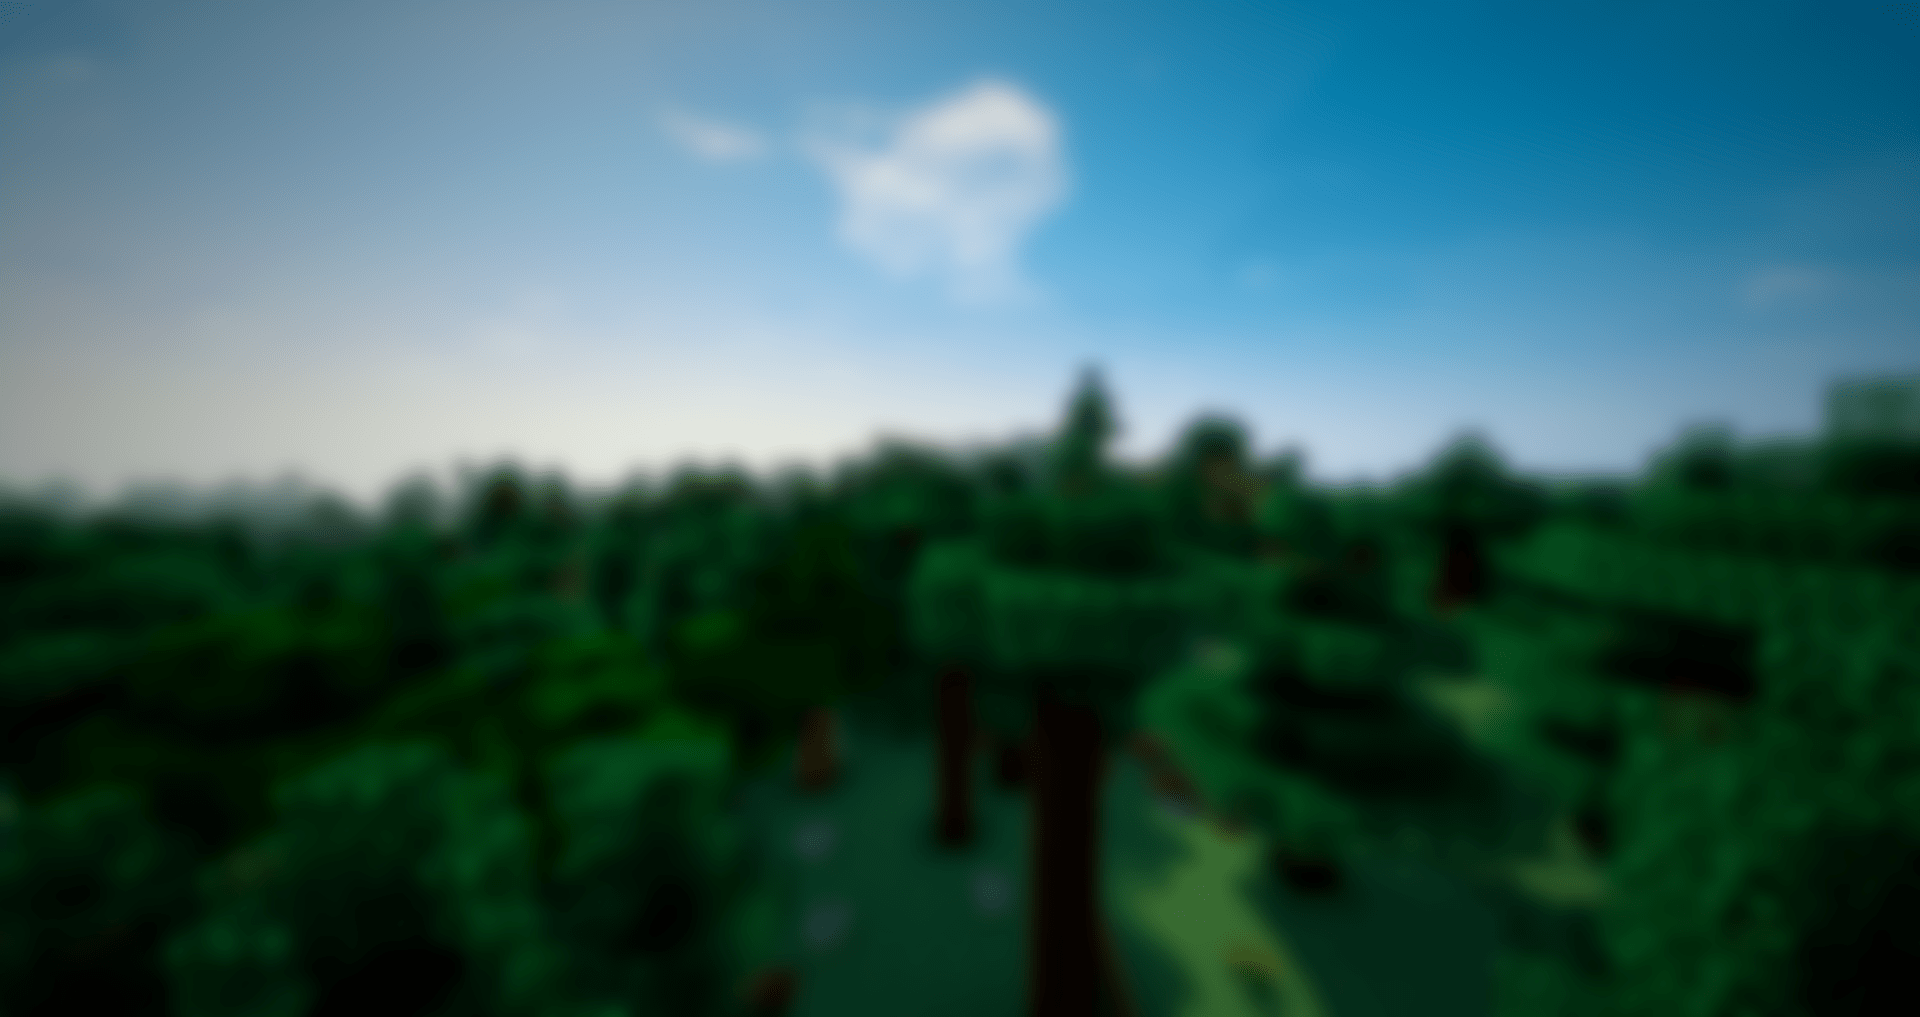
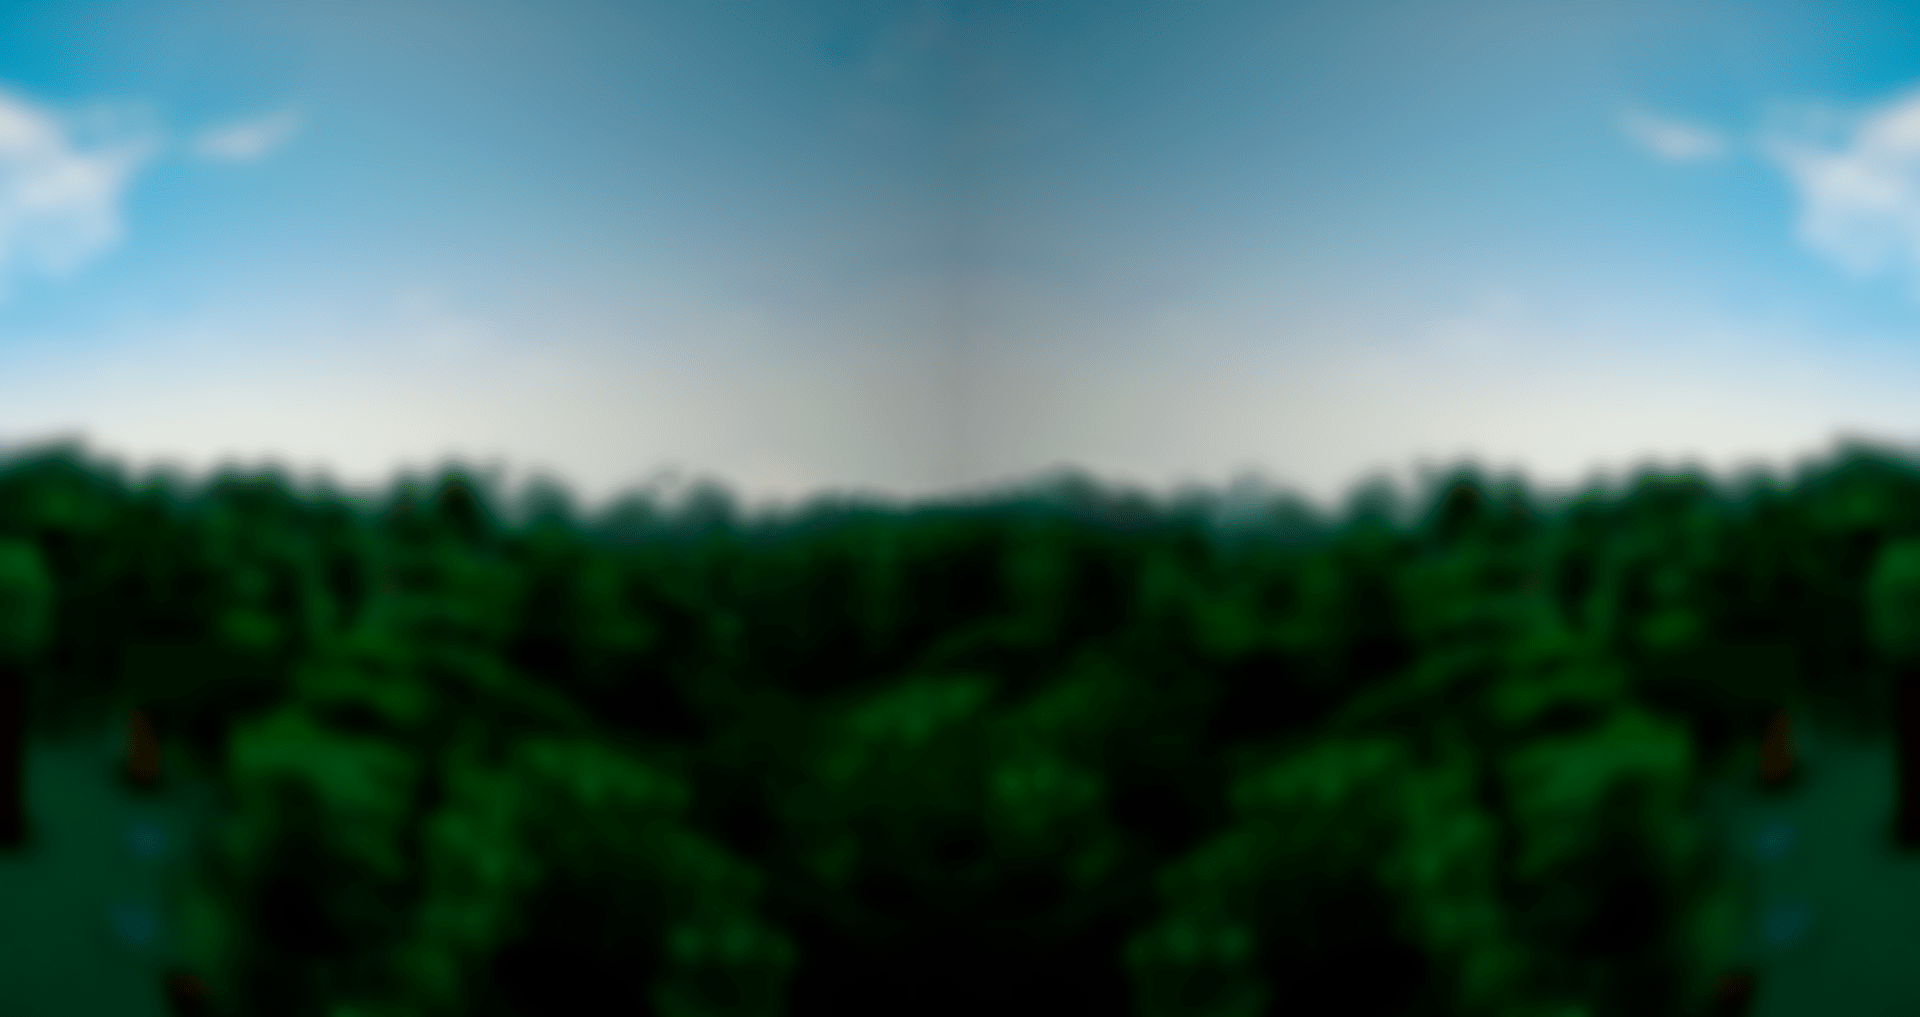
FullFix BG

diff --git a/style.css b/style.css
@@ -3,12 +3,10 @@
 body {
     font-family: 'Montserrat Alternates', sans-serif;
 
-    background: url('images/bg.png') 0 10% fixed;
-    background-position-x: 0px;
-    background-position-y: 10%;
-    background-position: center center;
-    background-size: 100% 100%, auto;
-    margin: 0;
+    background: url('images/bg.png') fixed;
+	background-position: center center;
+    background-size: auto 100%;
+	margin: 0;
 }
 
 .navColors {
